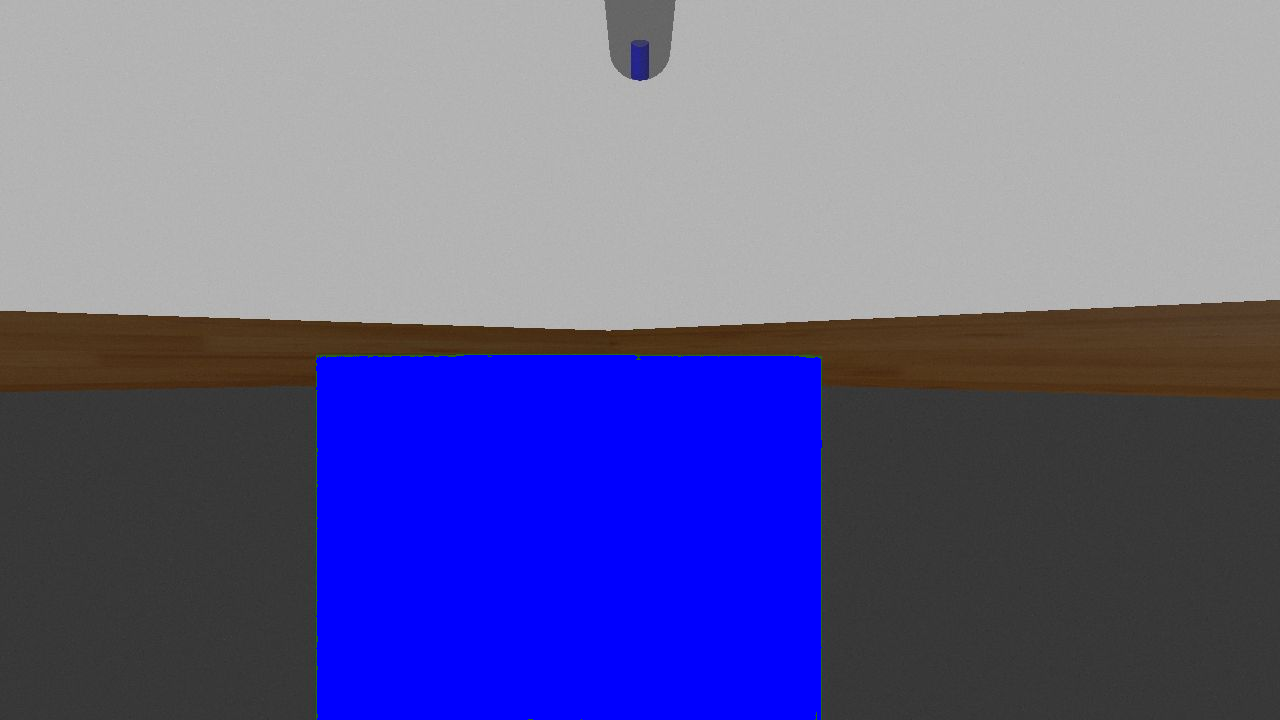
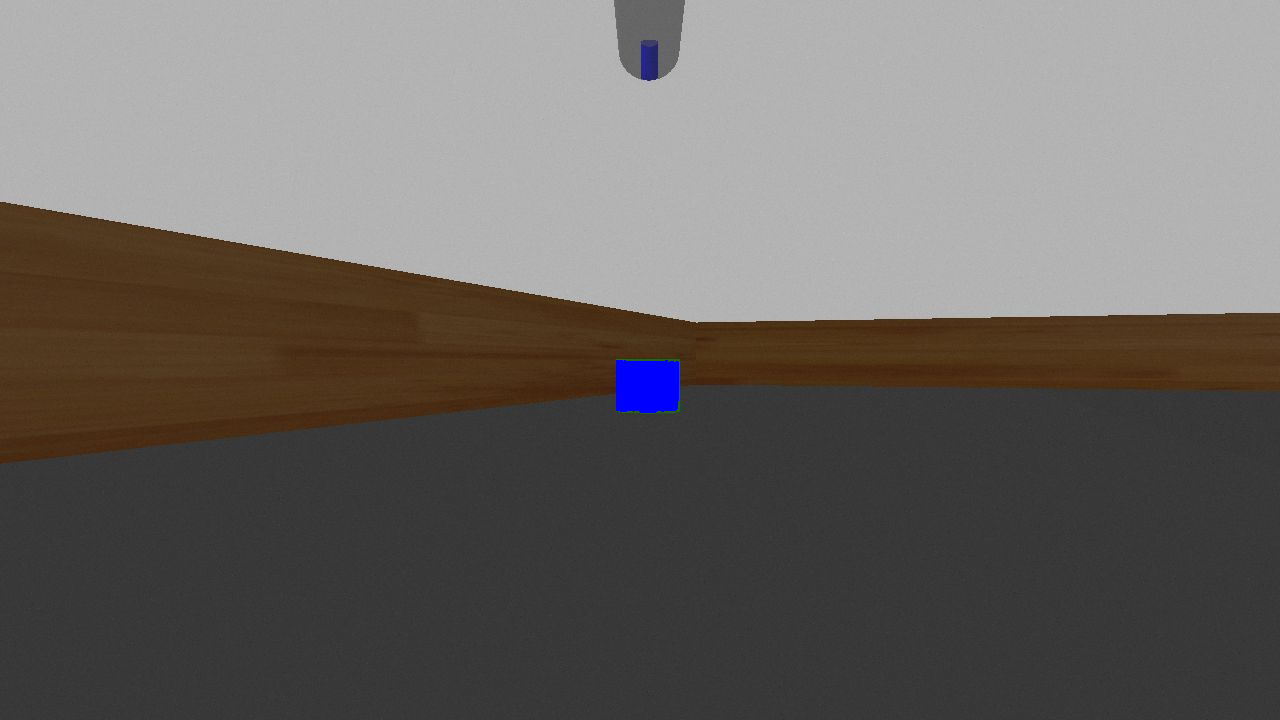
fin du projet

diff --git a/desherbor_ensta/scripts/robotControl.py b/desherbor_ensta/scripts/robotControl.py
@@ -1,0 +1,60 @@
+#!/usr/bin/env python
+# -*- coding: utf-8 -*-
+
+"""
+script de controle du robot:
+commande proportionnelle par rapport à l'erreur sur l'angle et la distance
+"""
+
+# license removed for brevity
+import rospy
+from std_msgs.msg import String, Float64, Float64MultiArray, Empty
+from math import atan2,pi
+
+
+
+
+def commander_vitesse_roues(message, publishers):
+    pub1, pub2, pub3 = publishers[0],publishers[1],publishers[2]
+    r = message.data
+    vitesse = 0.5*r + 0.3
+    print(r)
+    if r > 0.167:
+        pub1.publish(Float64(data = 2*vitesse))
+        pub2.publish(Float64(data = 2*vitesse))
+    else:
+        pub3.publish(Empty())
+        pub1.publish(Float64(data = 0))
+        pub2.publish(Float64(data = 0))
+
+
+def commander_angle_roues(message, publishers):
+    pub1, pub2 = publishers[0],publishers[1]
+    theta = -message.data/180*pi
+    # theta = 0.2
+    # print(theta)
+    pub1.publish(Float64(data = theta))
+    pub2.publish(Float64(data = theta))
+
+
+
+if __name__ == '__main__':
+    rospy.init_node('robotControl')
+    pub_left_speed = rospy.Publisher('/desherbor_ensta/joint_left_bottom_wheel/command', Float64, queue_size = 1)
+    pub_right_speed = rospy.Publisher('/desherbor_ensta/joint_right_bottom_wheel/command', Float64, queue_size = 1)
+    pub_left_angle = rospy.Publisher('/desherbor_ensta/joint_left_top_wheel/command', Float64, queue_size = 1)
+    pub_right_angle = rospy.Publisher('/desherbor_ensta/joint_right_top_wheel/command', Float64, queue_size = 1)
+    pub_destroy = rospy.Publisher('/Destroy', Empty, queue_size = 1)
+    rospy.Subscriber("/DISTANCE", Float64, commander_vitesse_roues, callback_args = [pub_left_speed,pub_right_speed,pub_destroy])
+    rospy.Subscriber("/ORIENTATION", Float64, commander_angle_roues, callback_args = [pub_left_angle,pub_right_angle])
+    rospy.spin()
+
+
+    # while(1):
+    #     roulement_roue_gauche()
+    #     avancer()
+    # try:
+    # except rospy.ROSInterruptException:
+    #     pass
+
+

diff --git a/desherbor_ensta/worlds/grass_position.py b/desherbor_ensta/worlds/grass_position.py
@@ -17,7 +17,7 @@ class Grass_position():
 		self.distance_herb = 0.0
 		self.theta_herb = 0.0
 		self.position_robot = Pose2D()
-		self.pub = rospy.Publisher("Grass_position", Point,queue_size=10)
+		self.pub = rospy.Publisher("/HerbePos", Point,queue_size=10)
 		rospy.Subscriber("DISTANCE", Float64, self.callback_distance_herb)
 		rospy.Subscriber("ORIENTATION", Float64, self.callback_theta)
 		rospy.Subscriber("/position", Pose2D, self.callback_robot)
@@ -37,8 +37,10 @@ class Grass_position():
 		y_grass = self.position_robot.y + self.distance_herb*math.sin(self.position_robot.theta + self.theta_herb)
 		print("position estime d'herb:",x_grass,y_grass)
 
-		position_grass = Point
-		position_grass.data = Point(x_grass,y_grass,0.0)
+		position_grass = Point()
+		position_grass.x = x_grass
+		position_grass.y = y_grass
+		position_grass.z = 0.0
 		self.pub.publish(position_grass)
 
 

diff --git a/desherbor_ensta/worlds/grass_spawner.py b/desherbor_ensta/worlds/grass_spawner.py
@@ -93,7 +93,7 @@ def destroy(data):
     global Herbey
     dist = []
 
-    DistanceMaxSuppression =0.2
+    DistanceMaxSuppression = 0.5
 
     for i in range(NbHerbe):
         dist.append(distance(X[i],Y[i],HerbeX,HerbeY))
@@ -138,6 +138,9 @@ def destroy(data):
         requestRespawn.initial_pose.orientation.w = 1.0
 
         gazeboSpawnModel(requestRespawn)
+
+        X[ind_min] = 1000000
+        Y[ind_min] = 1000000
     else :
         print "C'est bien trop loin"
 

diff --git a/desherbor_ensta/scripts/herb_position.py b/desherbor_ensta/scripts/herb_position.py
@@ -71,6 +71,7 @@ def get_bounding_box(img,disp = False):
 		# print(x,y,w,h)
 	else :
 		x,y,w,h =0,0,0,0
+		x,y,w,h = 1200,0,1,50
 	return x, y, w, h
 
 def get_central_point(x,y,w,h):
